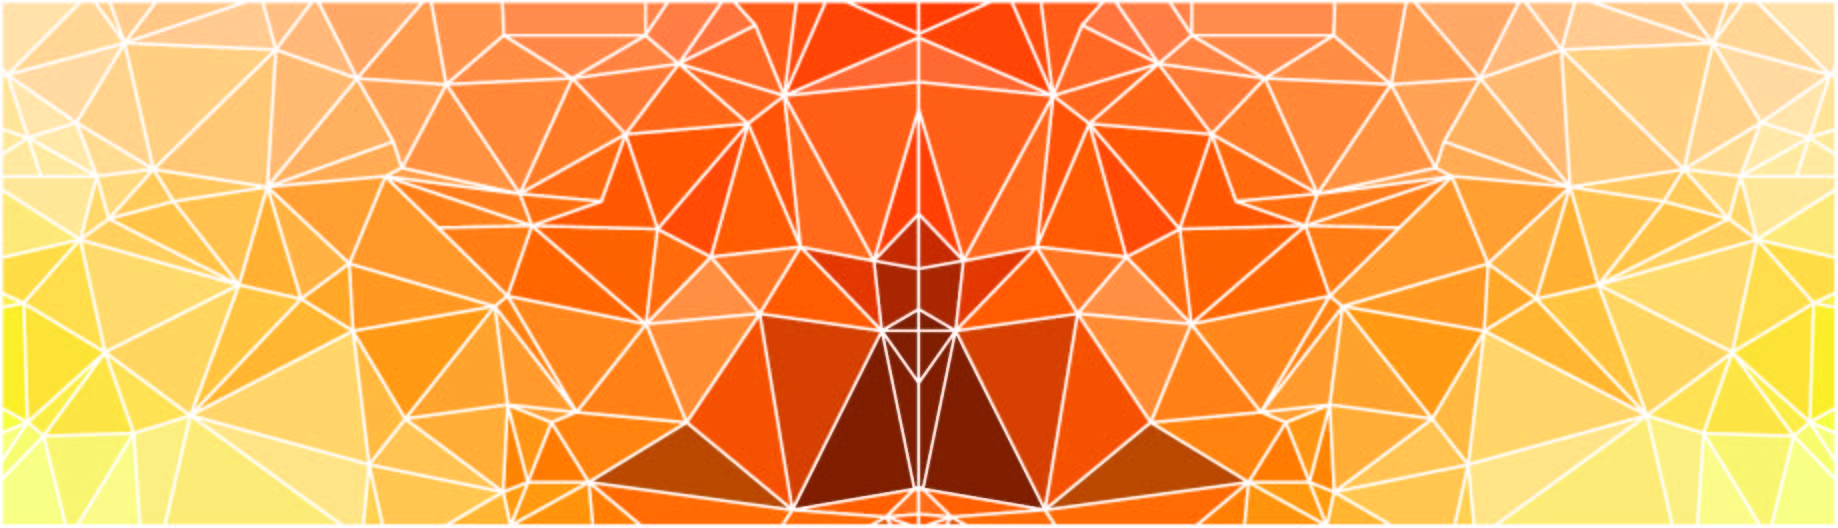
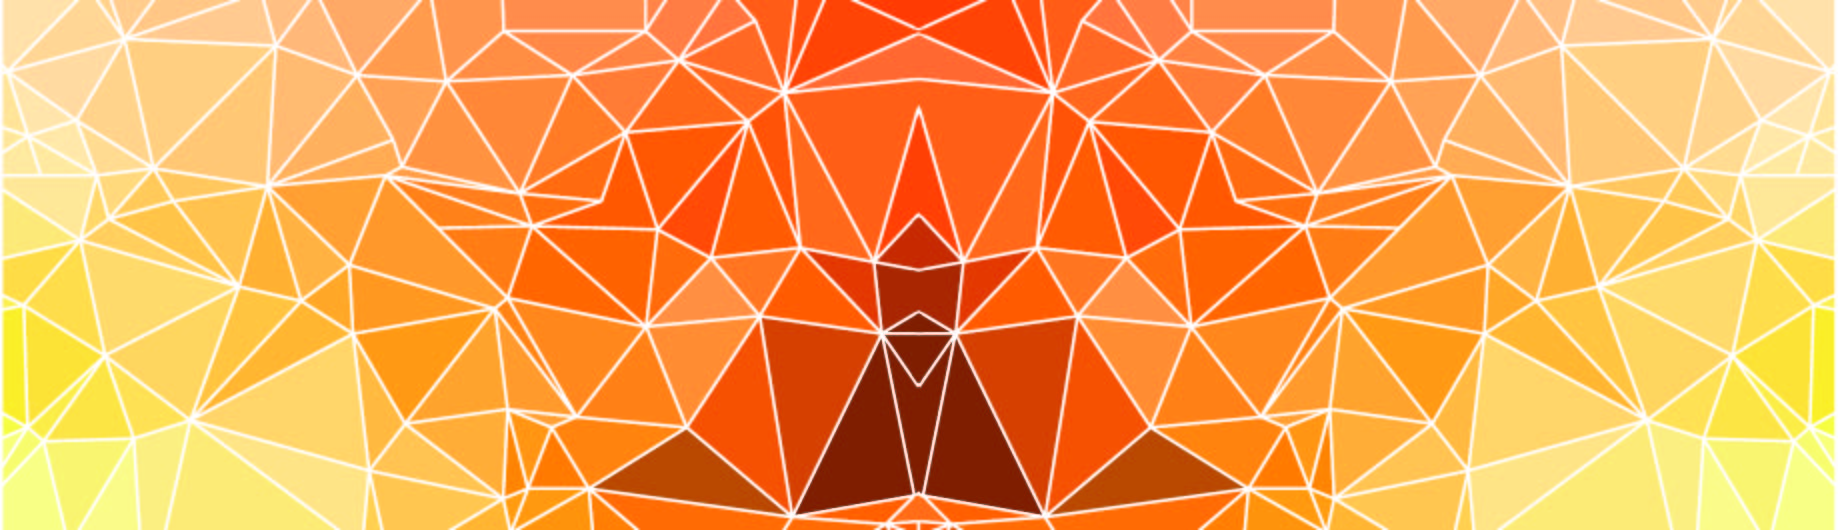
removed asset, worked on nested grid.

diff --git a/style.css b/style.css
@@ -146,6 +146,30 @@
   background-color:#F0EFEF;
 }
 
+/* .back-bg{
+  width: 441px;
+  height: 177px;
+  position: absolute;
+  top: 375px;
+  left: 500px;
+  background-color: #eb0606;
+  } */
+
+/* .back-bg .back-side{
+  background-color:rgb(118, 27, 237);
+  width: 100%;
+  height:100%;
+  display: grid;
+  grid-template-columns: 1fr;
+  grid-template-rows: repeat(2, 1fr);
+  grid-column-gap: 0px;
+  grid-row-gap: 0px;
+  margin-left: 20px;
+  }
+  
+  .top-half { grid-area: 1 / 1 / 2 / 2; }
+  .bottom-half { grid-area: 2 / 1 / 3 / 2; } */
+
 
 
 .icon-container{
@@ -215,7 +239,7 @@ svg{
   position: absolute;
   height: 100%;
   width: 200%;
-  background-image: url('assets/Untitled-3.jpg');
+  background-image: url('assets/882.jpg');
   background-size: 441px 254px;
   background-repeat:repeat-x;
   animation: slide 15s linear infinite;

diff --git a/index.html b/index.html
@@ -36,7 +36,10 @@
           <!-- back side of business card -->   
                 <section class="back-side">
 
-			
+					<div class="back-bg">
+						<div class="top-half"> </div>
+						<div class="bottom-half"> </div>
+						</div>
 				
                     <!-- text container -->
                     <div class="text-container">
@@ -46,7 +49,7 @@
 
 					
 		
-			
+					
 		
 
 
